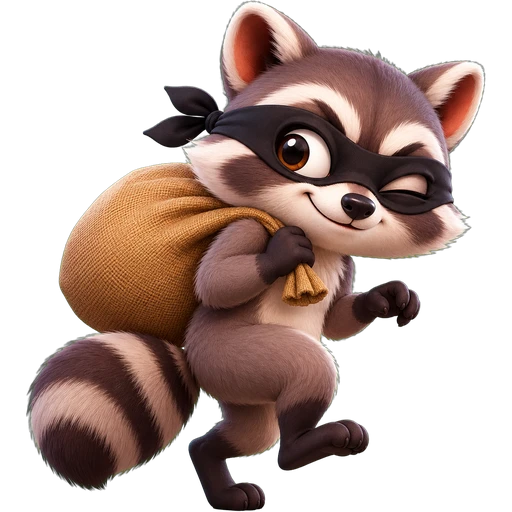
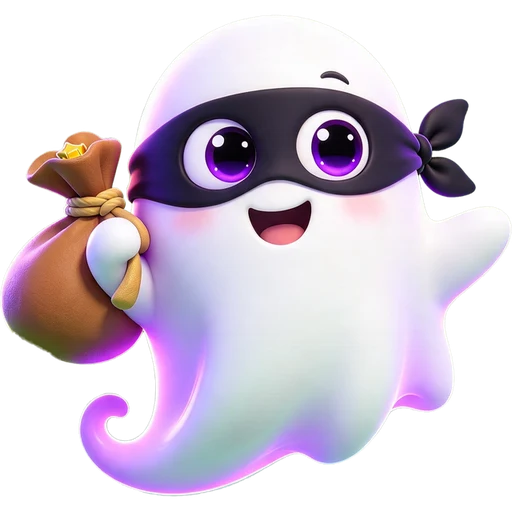
偷嘢換做幽靈小偷：飄入、笑、轉圈消失；煙霧改做半透明軟雲
Claude-Session: https://claude.ai/code/session_01E2utfFQBUZUAHLnSXfgdjb

diff --git a/components/steal-intro.tsx b/components/steal-intro.tsx
@@ -1,40 +1,78 @@
 "use client";
+import type { CSSProperties } from "react";
 
 /** How long the 偷嘢 intro runs before the rival's store opens (the smoke has covered the screen by then). */
 export const STEAL_INTRO_MS = 2600;
 
-/** Grey smoke puffs that fill the screen (x, y in %, size in vmin). */
-const SMOKE: [number, number, number][] = [
-  [50, 50, 70], [25, 30, 60], [75, 28, 62], [20, 70, 64], [80, 72, 62], [50, 15, 58], [50, 88, 60], [8, 48, 56], [92, 50, 56],
+/**
+ * Soft smoke (Sky 2026-10-01: "唔好咁實色"): see-through, billowy puffs (three noise-drawn cloud pictures)
+ * that swirl open from the middle outwards over a light haze. Each: x, y in %, size in vmin, turn, ring.
+ */
+const SMOKE: [number, number, number, number, number][] = [
+  [55, 50, 64, 77, 0],
+  [47, 56, 66, 333, 0],
+  [47, 44, 55, 37, 0],
+  [71, 66, 65, 187, 1],
+  [54, 82, 63, 259, 1],
+  [34, 74, 68, 19, 1],
+  [27, 48, 64, 222, 1],
+  [36, 24, 75, 35, 1],
+  [56, 19, 69, 46, 1],
+  [72, 37, 75, 30, 1],
+  [72, 98, 73, 114, 2],
+  [45, 107, 71, 295, 2],
+  [20, 89, 82, 25, 2],
+  [9, 53, 77, 23, 2],
+  [17, 15, 74, 148, 2],
+  [41, -6, 83, 73, 2],
+  [69, -1, 73, 292, 2],
+  [88, 28, 79, 286, 2],
+  [90, 67, 75, 52, 2],
 ];
 
-/** A cloud of smoke: "in" puffs it up to cover the screen, "out" clears it away. */
+/** A cloud of smoke: "in" billows it up to cover the screen, "out" lets it drift apart and fade. */
 export function SmokeCloud({ mode, delay = 0 }: { mode: "in" | "out"; delay?: number }) {
+  const inn = mode === "in";
   return (
     <div className="pointer-events-none absolute inset-0">
-      {SMOKE.map(([x, y, s], i) => (
-        <span
-          key={i}
-          className="absolute rounded-full"
-          style={{
-            left: `${x}%`,
-            top: `${y}%`,
-            width: `${s * 1.4}vmin`,
-            height: `${s * 1.4}vmin`,
-            marginLeft: `-${s * 0.7}vmin`,
-            marginTop: `-${s * 0.7}vmin`,
-            background: "radial-gradient(circle at 45% 40%, #d9dde6 0%, #b9bfcc 45%, rgba(150,158,176,0.9) 60%, rgba(150,158,176,0) 72%)",
-            animation: `${mode === "in" ? "smoke-in" : "smoke-out"} ${mode === "in" ? 600 : 800}ms ease-out ${delay + i * 25}ms both`,
-          }}
-        />
-      ))}
+      <div
+        className="absolute inset-0"
+        style={{
+          background: "radial-gradient(circle at 50% 50%, rgba(226,222,240,0.92), rgba(190,184,214,0.85) 60%, rgba(150,142,184,0.8))",
+          animation: `${inn ? "smoke-haze-in" : "smoke-haze-out"} ${inn ? 700 : 900}ms ease-out ${delay + (inn ? 120 : 100)}ms both`,
+        }}
+      />
+      {SMOKE.map(([x, y, s, turn, ring], i) => {
+        const a = Math.atan2(y - 50, x - 50);
+        return (
+          <img
+            key={i}
+            src={`/art/fx/smoke${(i % 3) + 1}.webp`}
+            alt=""
+            draggable={false}
+            className="absolute max-w-none"
+            style={
+              {
+                left: `${x}%`,
+                top: `${y}%`,
+                width: `${s * 1.5}vmin`,
+                height: `${s * 1.5}vmin`,
+                "--r": `${turn}deg`,
+                "--dx": `${Math.cos(a) * (ring ? 8 : 3)}vmin`,
+                "--dy": `${Math.sin(a) * (ring ? 8 : 3)}vmin`,
+                animation: `${inn ? "smoke-in" : "smoke-out"} ${inn ? 650 : 950}ms ease-out ${delay + (inn ? ring * 90 : (2 - ring) * 60) + (i % 3) * 20}ms both`,
+              } as CSSProperties
+            }
+          />
+        );
+      })}
     </div>
   );
 }
 
 /**
- * Landing on 偷嘢 (Sky 2026-09-30): night falls over the board, a searchlight sweeps, paw prints tiptoe across,
- * the masked raccoon sneaks in with his sack, stops and winks, then leaps — puff! — into a cloud of smoke,
+ * Landing on 偷嘢 (Sky 2026-10-01: the thief is now her masked ghost): night falls, a searchlight sweeps, the
+ * ghost flickers into being and floats in with its sack, giggles, then spins away — poof! — into soft smoke,
  * and the rival's store opens behind it (the steal screen clears the smoke).
  */
 export function StealIntro() {
@@ -47,27 +85,24 @@ export function StealIntro() {
         className="absolute left-1/2 top-[-10%] h-[120%] w-[70vmin] origin-top animate-[searchlight_2600ms_ease-in-out_both] opacity-0"
         style={{ background: "linear-gradient(to bottom, rgba(255,246,190,0.75), rgba(255,246,190,0.12) 80%, transparent)", clipPath: "polygon(45% 0, 55% 0, 100% 100%, 0 100%)" }}
       />
-      {/* Paw prints tiptoeing across. */}
-      <div className="absolute inset-x-0 top-[70%]">
-        {Array.from({ length: 7 }, (_, i) => (
-          <span
-            key={i}
-            className="absolute size-5 rounded-full bg-[#3b2a1f]/80 opacity-0"
-            style={{
-              left: `${6 + i * 12}%`,
-              top: i % 2 ? "0" : "22px",
-              transform: "scaleX(0.8)",
-              animation: `paw-print 1400ms ease-out ${300 + i * 110}ms both`,
-              boxShadow: "-9px -12px 0 -5px rgba(59,42,31,0.8), 0 -15px 0 -5px rgba(59,42,31,0.8), 9px -12px 0 -5px rgba(59,42,31,0.8)",
-            }}
-          />
-        ))}
+      {/* Little purple wisps the ghost leaves behind. */}
+      {Array.from({ length: 6 }, (_, i) => (
+        <span
+          key={i}
+          className="absolute size-[3vmin] rounded-full opacity-0"
+          style={{
+            left: `${8 + i * 8}%`,
+            top: `${54 + (i % 2 ? 4 : -2)}%`,
+            background: "radial-gradient(circle, rgba(255,255,255,0.95), rgba(196,140,255,0.6) 45%, transparent 70%)",
+            animation: `ghost-wisp 900ms ease-out ${350 + i * 150}ms both`,
+          }}
+        />
+      ))}
+      {/* The ghost flickers in, floats to the middle, giggles, and spins away into the smoke. */}
+      <div className="absolute left-1/2 top-[54%] animate-[ghost-float_2600ms_both]">
+        <img src="/art/fx/thief.webp" alt="" draggable={false} className="size-[62vmin] max-h-80 max-w-80 object-contain drop-shadow-[0_0_22px_rgba(190,130,255,0.65)]" />
       </div>
-      {/* The raccoon thief sneaks in, stops, winks, and leaps into the smoke. */}
-      <div className="absolute left-1/2 top-[56%] animate-[thief-sneak_2600ms_both]">
-        <img src="/art/fx/thief.webp" alt="" draggable={false} className="size-[62vmin] max-h-80 max-w-80 object-contain drop-shadow-[0_12px_18px_rgba(0,0,0,0.55)]" />
-      </div>
-      {/* Puff! */}
+      {/* Poof! */}
       <SmokeCloud mode="in" delay={1850} />
     </div>
   );

diff --git a/app/globals.css b/app/globals.css
@@ -278,25 +278,38 @@
   72%, 100% { transform: translateX(-50%) rotate(8deg); opacity: 0; }
 }
 @keyframes paw-print { 0% { opacity: 0; transform: scale(1.6); } 15% { opacity: 1; transform: scale(1); } 70% { opacity: 1; } 100% { opacity: 0; } }
-@keyframes thief-sneak {
-  0%, 12% { transform: translate(-190%, -50%) rotate(-4deg); opacity: 0; }
-  16% { opacity: 1; }
-  22% { transform: translate(-150%, -54%) rotate(4deg); }
-  28% { transform: translate(-125%, -50%) rotate(-4deg); }
-  34% { transform: translate(-100%, -54%) rotate(4deg); }
-  40% { transform: translate(-78%, -50%) rotate(-4deg); }
-  46% { transform: translate(-60%, -54%) rotate(3deg); }
-  52% { transform: translate(-50%, -50%) rotate(0deg); }
-  56% { transform: translate(-50%, -50%) scale(1.08); }
-  60%, 66% { transform: translate(-50%, -50%) scale(1); }
-  72% { transform: translate(-50%, -75%) scale(1.05) rotate(-8deg); opacity: 1; }
-  80%, 100% { transform: translate(-50%, -40%) scale(0.2) rotate(20deg); opacity: 0; }
+@keyframes ghost-float {
+  0%, 10% { transform: translate(-190%, -50%) rotate(-6deg); opacity: 0; filter: blur(6px); }
+  14% { opacity: 0.5; }
+  16% { opacity: 0.15; }
+  19% { opacity: 0.8; filter: blur(0); }
+  22% { transform: translate(-150%, -58%) rotate(6deg); opacity: 1; }
+  30% { transform: translate(-118%, -46%) rotate(-5deg); }
+  38% { transform: translate(-88%, -58%) rotate(5deg); }
+  46% { transform: translate(-64%, -46%) rotate(-3deg); }
+  52% { transform: translate(-50%, -52%) rotate(0deg); }
+  56% { transform: translate(-50%, -50%) scale(1.08, 0.93); }
+  59% { transform: translate(-50%, -54%) scale(0.95, 1.06); }
+  62% { transform: translate(-50%, -50%) scale(1.06, 0.95); }
+  66% { transform: translate(-50%, -52%) scale(1); }
+  71% { transform: translate(-50%, -60%) scale(1.05) rotate(-20deg); opacity: 1; filter: blur(0); }
+  80%, 100% { transform: translate(-50%, -50%) scale(0.15) rotate(340deg); opacity: 0; filter: blur(8px); }
 }
-@keyframes smoke-in { 0% { transform: scale(0.1); opacity: 0; } 60% { opacity: 1; } 100% { transform: scale(1); opacity: 1; } }
-@keyframes smoke-out { 0% { transform: scale(1); opacity: 1; } 100% { transform: scale(1.6); opacity: 0; } }
+@keyframes ghost-wisp { 0% { opacity: 0; transform: scale(0.4); } 20% { opacity: 1; transform: scale(1.2); } 100% { opacity: 0; transform: translateY(-6vmin) scale(0.3); } }
+@keyframes smoke-haze-in { 0% { opacity: 0; } 100% { opacity: 1; } }
+@keyframes smoke-haze-out { 0% { opacity: 1; } 100% { opacity: 0; } }
+@keyframes smoke-in {
+  0% { opacity: 0; transform: translate(-50%, -50%) rotate(var(--r)) scale(0.15); }
+  55% { opacity: 0.9; }
+  100% { opacity: 0.9; transform: translate(calc(-50% + var(--dx)), calc(-50% + var(--dy))) rotate(calc(var(--r) + 45deg)) scale(1); }
+}
+@keyframes smoke-out {
+  0% { opacity: 0.9; transform: translate(calc(-50% + var(--dx)), calc(-50% + var(--dy))) rotate(calc(var(--r) + 45deg)) scale(1); }
+  100% { opacity: 0; transform: translate(calc(-50% + var(--dx) * 5), calc(-50% + var(--dy) * 5)) rotate(calc(var(--r) + 110deg)) scale(1.5); }
+}
 
-/* 偷嘢 store: the raccoon's moods. */
-@keyframes thief-idle { 0%, 100% { transform: translateY(0) rotate(0); } 50% { transform: translateY(-4px) rotate(-2deg); } }
+/* 偷嘢 store: the ghost thief's moods (pet-screen dragons breathe with thief-idle too). */
+@keyframes thief-idle { 0%, 100% { transform: translateY(0) rotate(0); } 50% { transform: translateY(-9px) rotate(-3deg); } }
 @keyframes thief-hop { 0% { transform: translateY(0) scale(1); } 40% { transform: translateY(-26px) scale(1.06) rotate(-4deg); } 100% { transform: translateY(0) scale(1); } }
 @keyframes thief-jolt { 0% { transform: translate(0, 0); } 20% { transform: translate(-8px, -14px) rotate(-8deg); } 40% { transform: translate(8px, -6px) rotate(6deg); } 60% { transform: translate(-6px, 0) rotate(-4deg); } 100% { transform: translate(0, 0); } }
 /* 孵化 (Sky 2026-10-01): egg drops, wobbles, cracks, flash, the dragon pops out. Timeline over 3.4s. */

diff --git a/components/steal-screen.tsx b/components/steal-screen.tsx
@@ -57,7 +57,7 @@ export function StealScreen({ state, onPick, onReturn }: { state: GameState; onP
   const left = stealPicksLeft(state);
   const triple =
     opened.length === STEAL_PICKS && opened.every((i) => boxes[i]?.kind === boxes[opened[0]]?.kind) && !STEAL_DANGERS.includes(boxes[opened[0]]?.kind);
-  // Arriving from the raccoon's puff of smoke: it clears to show the store.
+  // Arriving from the ghost's puff of smoke: it clears to show the store.
   const [smoke, setSmoke] = useState(true);
   useEffect(() => {
     const id = window.setTimeout(() => setSmoke(false), 1100);
@@ -85,7 +85,7 @@ export function StealScreen({ state, onPick, onReturn }: { state: GameState; onP
     onPick(i);
   }
 
-  // The raccoon reacts to the last crate: a hop for loot, a jolt for the trap.
+  // The ghost reacts to the last crate: a hop for loot, a jolt for the trap.
   const mood = hurt ? "animate-[thief-jolt_0.5s_ease-out]" : last ? "animate-[thief-hop_0.5s_ease-out]" : "animate-[thief-idle_2.4s_ease-in-out_infinite]";
 
   return (
@@ -180,7 +180,7 @@ export function StealScreen({ state, onPick, onReturn }: { state: GameState; onP
         </p>
       ) : null}
 
-      {/* The raccoon, bottom left, reacting to each crate. */}
+      {/* The ghost thief, bottom left, reacting to each crate. */}
       <img
         src="/art/fx/thief.webp"
         alt=""

diff --git a/components/daily-game.tsx b/components/daily-game.tsx
@@ -341,7 +341,7 @@ export function DailyGame() {
     return () => window.clearTimeout(id);
   }, [state.phase, state.rollCount, introSeen]);
 
-  // Landing on 偷嘢 plays the raccoon's sneak-in, then opens the rival's store.
+  // Landing on 偷嘢 plays the ghost's float-in, then opens the rival's store.
   useEffect(() => {
     if (state.phase !== "steal" || stealSeen === state.rollCount) return;
     const roll = state.rollCount;

diff --git a/public/sw.js b/public/sw.js
@@ -1,5 +1,5 @@
 // 大富翁 service worker: keeps the app shell and art so the board opens without a network.
-const CACHE = "dafuweng-v175";
+const CACHE = "dafuweng-v176";
 const SHELL = [
   "/",
   "/manifest.webmanifest",
